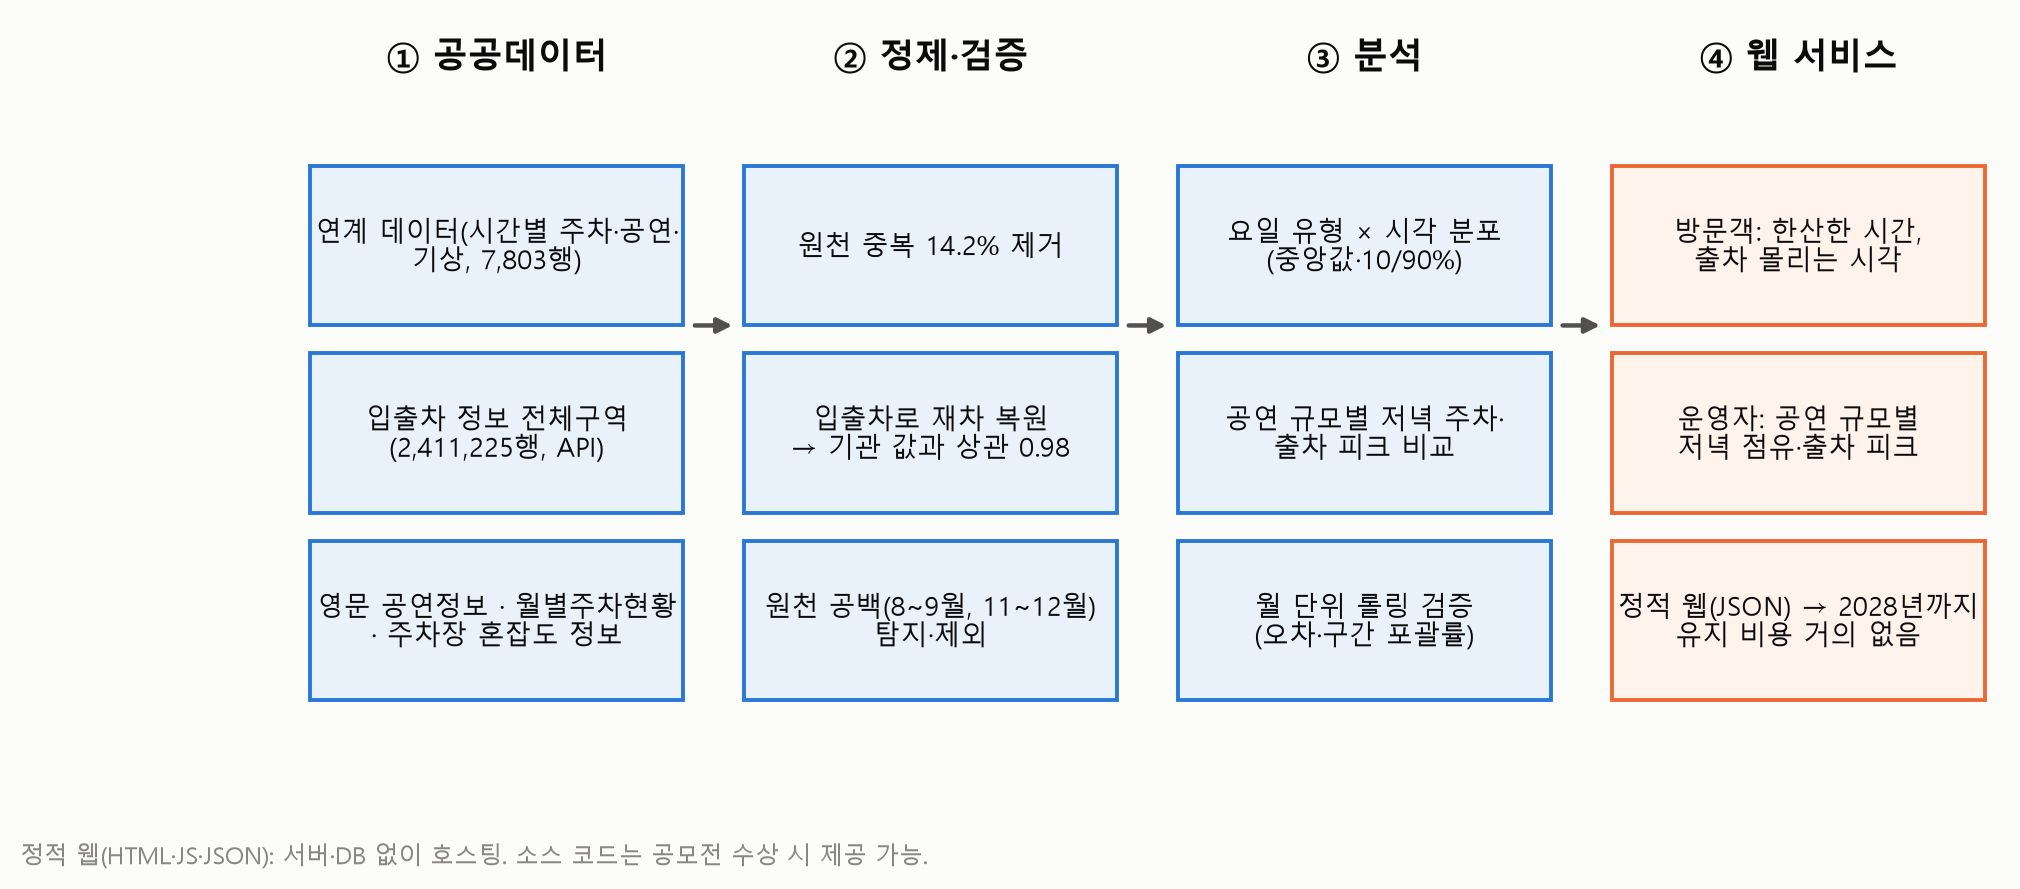
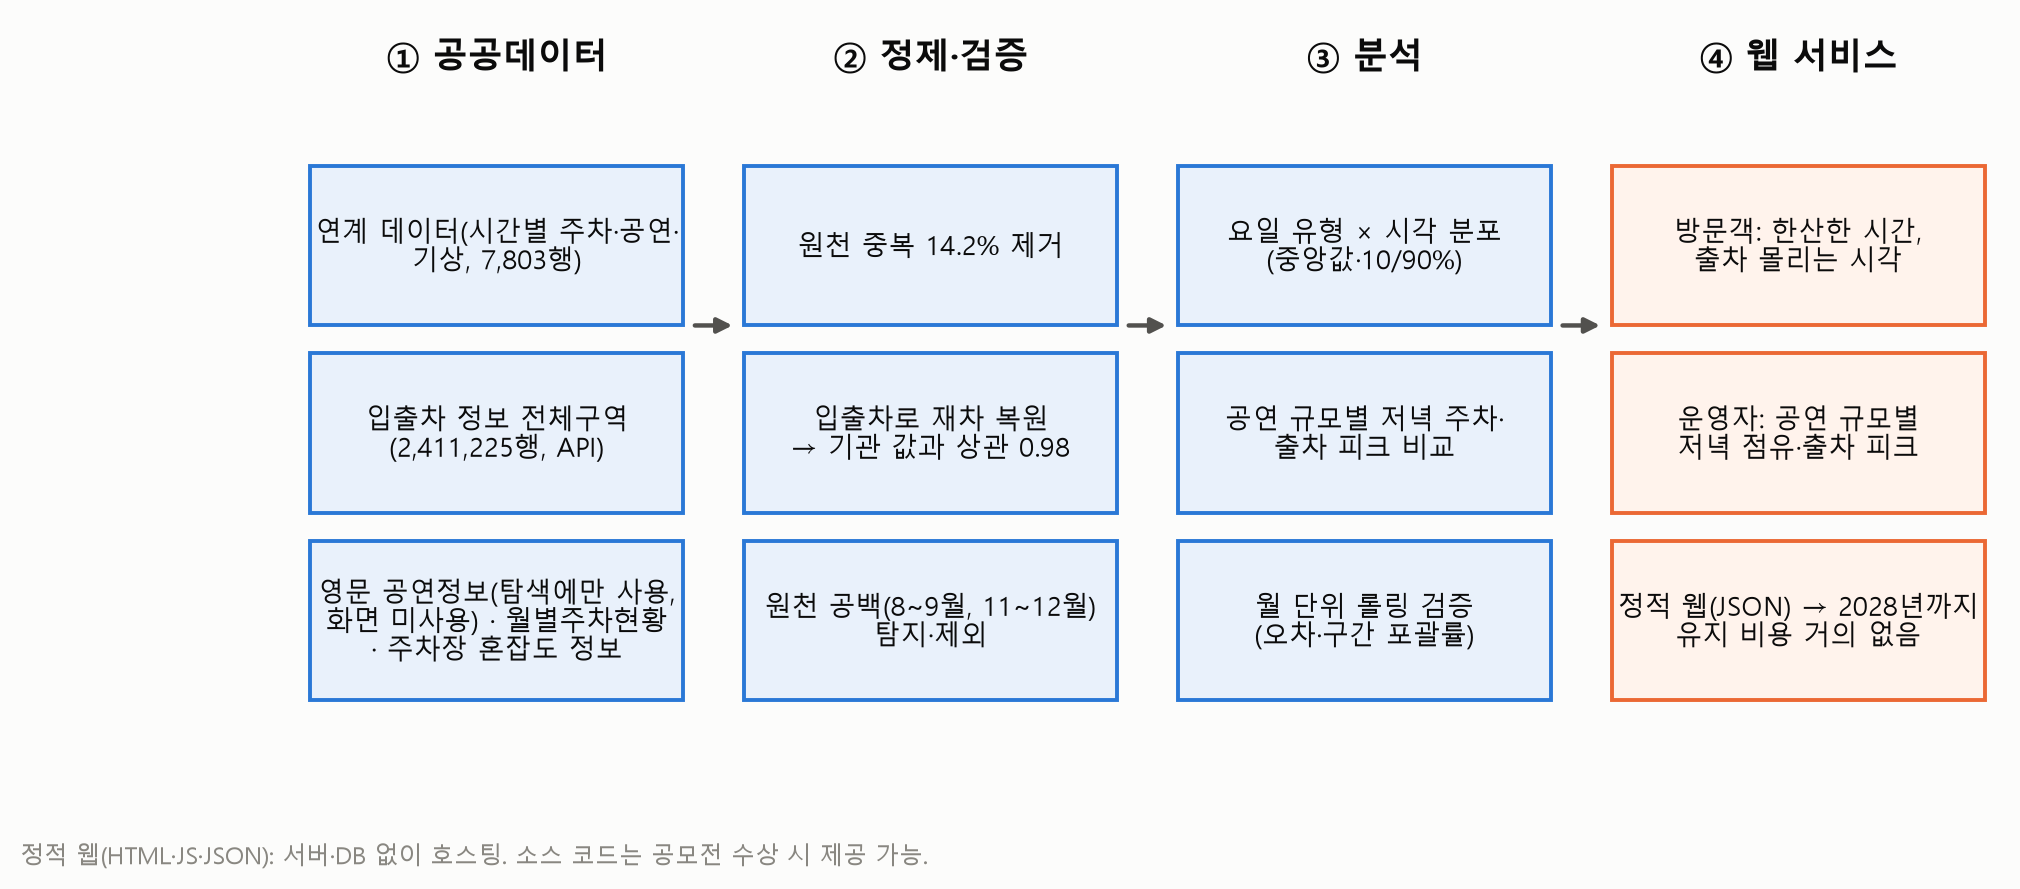
기획서 v7: 화면 캡처 6장을 라이브 화면으로 다시 찍음(plan_assets/screens_v4), 그림 4 '영문 공연정보(탐색에만 사용, 화면 미사용)' 병기, report/19 v7 대조, 기재문 v7

Changed region(s): [[0.1559, 0.6378, 0.3431, 0.7593]]

diff --git a/src/make_figures.py b/src/make_figures.py
@@ -175,7 +175,7 @@ finish(fig, "fig6_validation.png", f"앞선 달로 학습해 다음 달(3~7월, 
 
 # ---------- 그림 7: 서비스 구성도 ----------
 fig, ax = plt.subplots(figsize=(11, 4.6)); ax.axis("off"); ax.set_xlim(0, 11.2); ax.set_ylim(-0.5, 4.6); ax.grid(False)
-cols = [("① 공공데이터", ["연계 데이터(시간별 주차·공연·\n기상, 7,803행)", "입출차 정보 전체구역\n(2,411,225행, API)", "영문 공연정보 · 월별주차현황\n· 주차장 혼잡도 정보"]),
+cols = [("① 공공데이터", ["연계 데이터(시간별 주차·공연·\n기상, 7,803행)", "입출차 정보 전체구역\n(2,411,225행, API)", "영문 공연정보(탐색에만 사용,\n화면 미사용) · 월별주차현황\n· 주차장 혼잡도 정보"]),
         ("② 정제·검증", ["원천 중복 14.2% 제거", "입출차로 재차 복원\n→ 기관 값과 상관 0.98", "원천 공백(8~9월, 11~12월)\n탐지·제외"]),
         ("③ 분석", ["요일 유형 × 시각 분포\n(중앙값·10/90%)", "공연 규모별 저녁 주차·\n출차 피크 비교", "월 단위 롤링 검증\n(오차·구간 포괄률)"]),
         ("④ 웹 서비스", ["방문객: 한산한 시간,\n출차 몰리는 시각", "운영자: 공연 규모별\n저녁 점유·출차 피크", "정적 웹(JSON) → 2028년까지\n유지 비용 거의 없음"])]

diff --git a/report/19_plan_numbers_check.md b/report/19_plan_numbers_check.md
@@ -1,12 +1,12 @@
-# 19. 기획서 v6 수치 대조표 (자동 생성)
+# 19. 기획서 v7 수치 대조표 (자동 생성)
 
-- 대상: `올팍피크타임_기획서_v6.docx` (본문 문단 231개, 숫자 토큰 409개, 고유 값 144개)
+- 대상: `올팍피크타임_기획서_v7.docx` (본문 문단 231개, 숫자 토큰 409개, 고유 값 144개)
 - 방법: docx 본문에서 숫자를 모두 뽑아, 서비스 JSON(`docs/data/peaktime_2025.json`)과 화면 로직으로 다시 계산한 값, `plan_assets/README_기획서자료.md`·`report/00_findings_and_direction.md`·`plan_assets/tables/`의 확정값, 안내문 텍스트와 대조했다. 데이터 값이 아닌 숫자(정의·규칙·날짜·번호)는 근거를 따로 적었다.
-- 생성 스크립트: 작업 폴더의 `check_v3.py`(저장소 밖, v4~v6에도 같은 스크립트 사용). 수치 계산: `numbers_v3.js`(docs/index.html 의 PeakLogic + peaktime_2025.json + upcoming.json + data/interim/kopis_match.json). KOPIS 값은 report/21과도 대조했다.
+- 생성 스크립트: 작업 폴더의 `check_v3.py`(저장소 밖, v4~v7에도 같은 스크립트 사용). 수치 계산: `numbers_v3.js`(docs/index.html 의 PeakLogic + peaktime_2025.json + upcoming.json + data/interim/kopis_match.json). KOPIS 값은 report/21과도 대조했다.
 
 ## 결과
 
-- v6은 v5와 본문 글자가 같고 그림 4(구성도, `fig7_architecture.png`)의 '퇴장'→'출차' 두 곳만 바뀌었다.
+- v7은 v6과 본문 글자가 같다. 화면 캡처 6장을 라이브 화면으로 다시 찍었고(`plan_assets/screens_v4/`), 그림 4의 '영문 공연정보'에 '(탐색에만 사용, 화면 미사용)'을 붙였다. v6에서는 그림 4의 '퇴장'을 '출차'로 바꿨다(두 곳).
 - v5에서 바뀐 문장(3-5절 제외한 달)의 새 숫자 '4분의 1'·'11월 초순'·'12월 7일'은 값 단위 대조가 다른 문장의 같은 값과 겹치므로 `report/23_wording_fix.md`의 계산표(10월 대비 21~26%, 11/7 06시·12/7 16시까지 기록)와 따로 대조했다. 일치.
 - 출처에 없는 숫자: **0건**
 - 출처 값과 다른 숫자: **0건**

diff --git a/plan_assets/신청서_기재문.md b/plan_assets/신청서_기재문.md
@@ -1,6 +1,6 @@
 # 참가신청서 기재문 (hwp 신청서에 붙여 넣을 텍스트)
 
-기획서 v6(`올팍피크타임_기획서_v6.docx`, 제출용 `올팍피크타임_기획서_최종본.docx`)와 같은 표현·수치입니다. 성명·연락처·서명·날짜는 직접 적어 주세요.
+기획서 v7(`올팍피크타임_기획서_v7.docx`, 제출용 `올팍피크타임_기획서_최종본.docx`)와 같은 표현·수치입니다. 성명·연락처·서명·날짜는 직접 적어 주세요.
 
 ## 활용사례 제목
 
